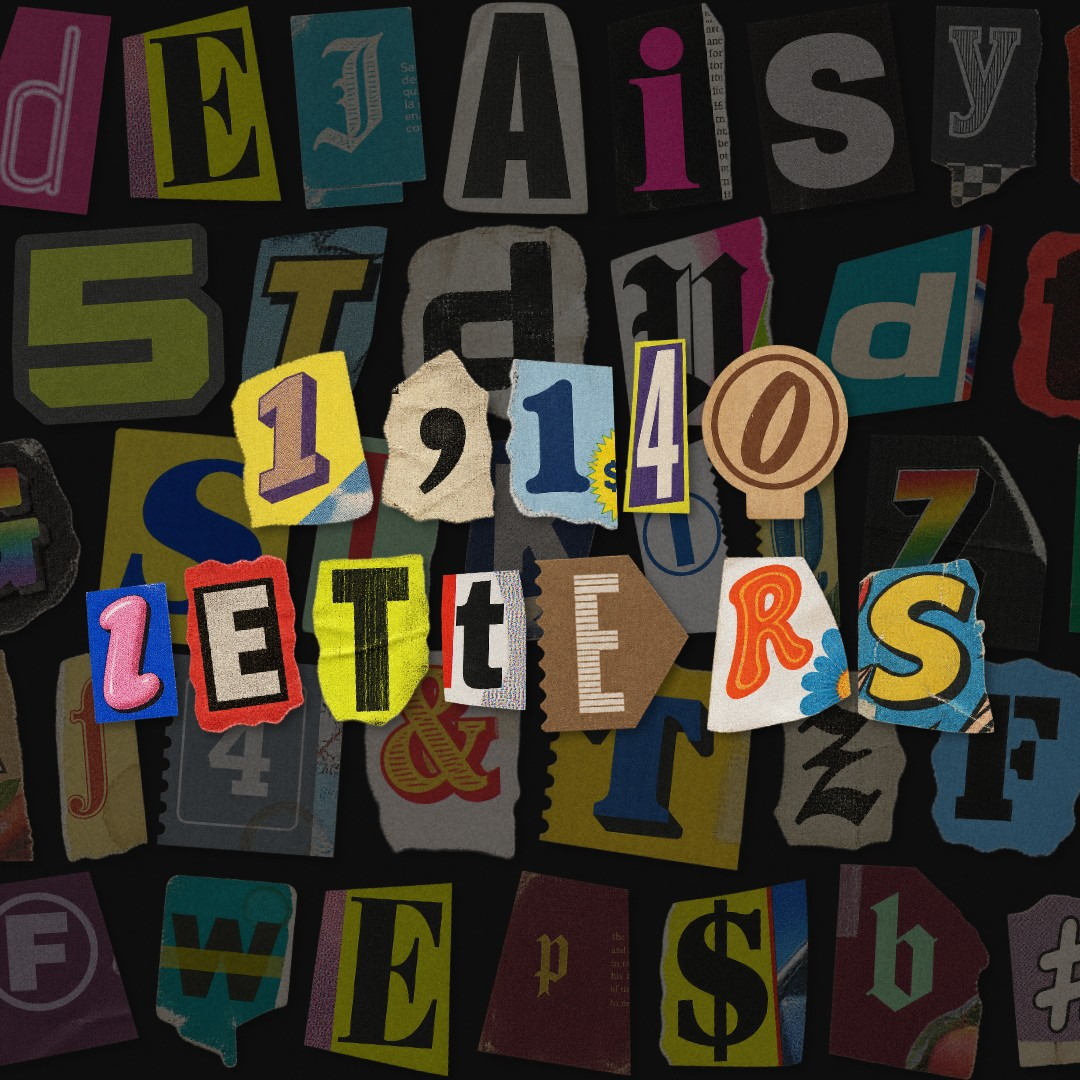
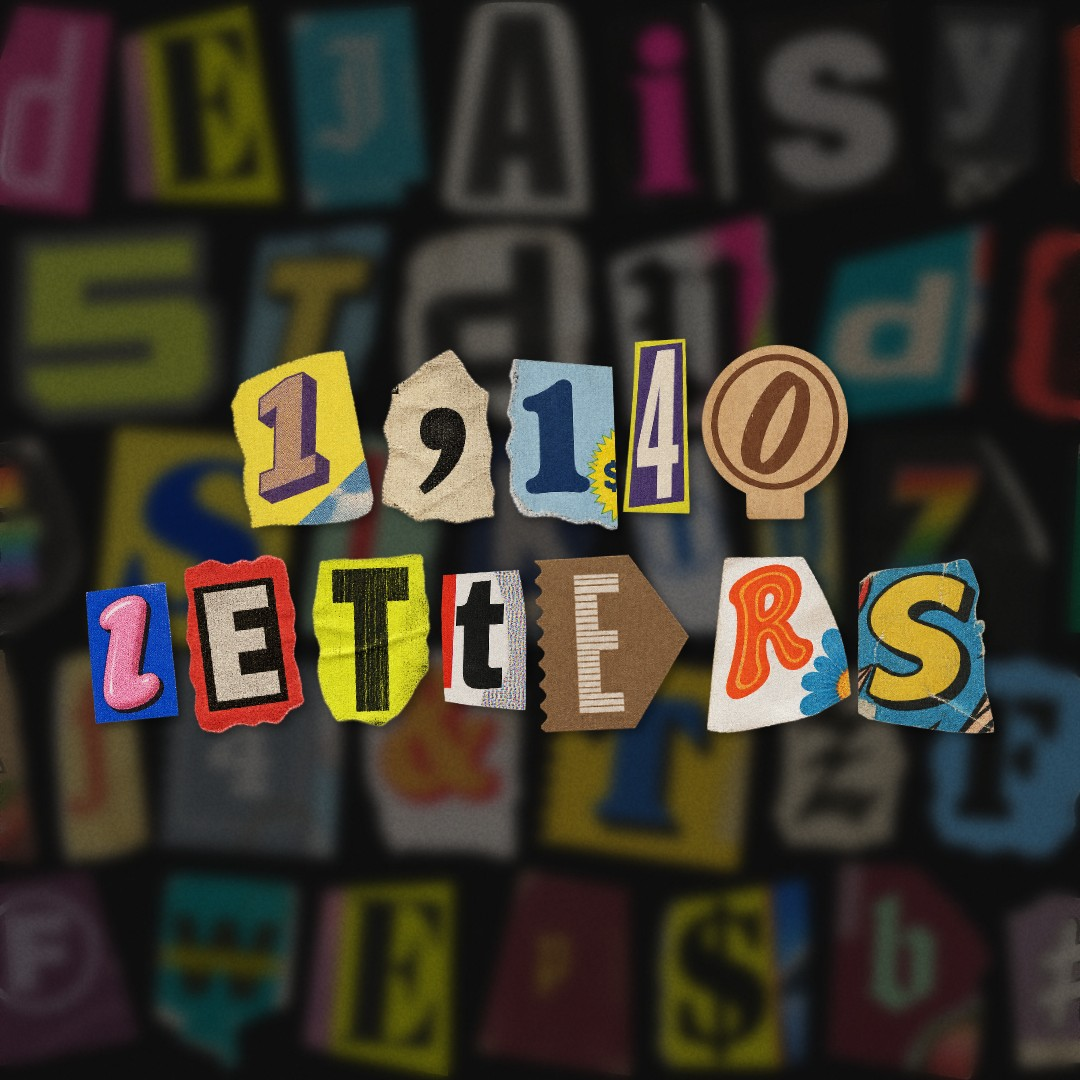
Clippings 1,140 still: the letter wall behind blurred

diff --git a/assets/js/plugins.js b/assets/js/plugins.js
@@ -187,8 +187,8 @@ const plugins = [
     shots: [
       // the real panel, live (panel-demos.js): type, swap, shuffle, align, boil
       { demo: 'clippings', src: 'projects/plugins/clippings-ui.jpg?v=2', alt: 'The Clippings panel: type your own words' },
-      // a still, not the loop: the 1,140 LETTERS card (promo/clippings, no piece twice in a note)
-      { src: 'projects/plugins/clippings-1140.jpg?v=1', alt: '1,140 cutout letters' }
+      // a still, not the loop: the 1,140 LETTERS card (promo/clippings at 16.2 s, no piece twice in a note, the wall blurred)
+      { src: 'projects/plugins/clippings-1140.jpg?v=2', alt: '1,140 cutout letters' }
     ],
     intro: `<p>Type your text and Clippings builds it from real cutout letters: magazine scraps, newsprint, comics, record sleeves, band tees, embroidered patches, stickers, tickets and tin signs. The preview shows the exact letters you'll get. Click one to swap it, or shuffle them all, then hit Add.</p>
 <p>The note lands in your comp as one layer, sized to fit, and nothing is baked. Tilt, spacing, boil and the paper shadow are sliders right on that layer, and every letter inside is its own layer you can animate.</p>`,

diff --git a/bodyarmor-powerade.html b/bodyarmor-powerade.html
@@ -19,7 +19,7 @@
 <link rel="preconnect" href="https://fonts.googleapis.com">
 <link rel="preconnect" href="https://fonts.gstatic.com" crossorigin>
 <link href="https://fonts.googleapis.com/css2?family=Inter:ital,wght@0,300..700;1,300..700&display=swap" rel="stylesheet">
-<link rel="stylesheet" href="assets/css/site.css?v=393">
+<link rel="stylesheet" href="assets/css/site.css?v=394">
 <style>
   /* First paint: the header (logo + menu) stays put from page to page; the
      project itself builds top down (site.css, .project load-in). */
@@ -100,9 +100,9 @@
 </footer>
 
 <script>window.PROJECT_SLUG = "bodyarmor-powerade";</script>
-<script src="assets/js/projects.js?v=393"></script>
-<script src="assets/js/project-page.js?v=393"></script>
-<script src="assets/js/site.js?v=393"></script>
+<script src="assets/js/projects.js?v=394"></script>
+<script src="assets/js/project-page.js?v=394"></script>
+<script src="assets/js/site.js?v=394"></script>
 <!-- GoatCounter: page views, no cookies. Skips itself on localhost. -->
 <script data-goatcounter="https://michaelloya.goatcounter.com/count" async src="https://gc.zgo.at/count.js"></script>
 </body>

diff --git a/university-union.html b/university-union.html
@@ -19,7 +19,7 @@
 <link rel="preconnect" href="https://fonts.googleapis.com">
 <link rel="preconnect" href="https://fonts.gstatic.com" crossorigin>
 <link href="https://fonts.googleapis.com/css2?family=Inter:ital,wght@0,300..700;1,300..700&display=swap" rel="stylesheet">
-<link rel="stylesheet" href="assets/css/site.css?v=393">
+<link rel="stylesheet" href="assets/css/site.css?v=394">
 <style>
   /* First paint: the header (logo + menu) stays put from page to page; the
      project itself builds top down (site.css, .project load-in). */
@@ -100,9 +100,9 @@
 </footer>
 
 <script>window.PROJECT_SLUG = "university-union";</script>
-<script src="assets/js/projects.js?v=393"></script>
-<script src="assets/js/project-page.js?v=393"></script>
-<script src="assets/js/site.js?v=393"></script>
+<script src="assets/js/projects.js?v=394"></script>
+<script src="assets/js/project-page.js?v=394"></script>
+<script src="assets/js/site.js?v=394"></script>
 <!-- GoatCounter: page views, no cookies. Skips itself on localhost. -->
 <script data-goatcounter="https://michaelloya.goatcounter.com/count" async src="https://gc.zgo.at/count.js"></script>
 </body>

diff --git a/where-it-hurts.html b/where-it-hurts.html
@@ -19,7 +19,7 @@
 <link rel="preconnect" href="https://fonts.googleapis.com">
 <link rel="preconnect" href="https://fonts.gstatic.com" crossorigin>
 <link href="https://fonts.googleapis.com/css2?family=Inter:ital,wght@0,300..700;1,300..700&display=swap" rel="stylesheet">
-<link rel="stylesheet" href="assets/css/site.css?v=393">
+<link rel="stylesheet" href="assets/css/site.css?v=394">
 <style>
   /* First paint: the header (logo + menu) stays put from page to page; the
      project itself builds top down (site.css, .project load-in). */
@@ -100,9 +100,9 @@
 </footer>
 
 <script>window.PROJECT_SLUG = "where-it-hurts";</script>
-<script src="assets/js/projects.js?v=393"></script>
-<script src="assets/js/project-page.js?v=393"></script>
-<script src="assets/js/site.js?v=393"></script>
+<script src="assets/js/projects.js?v=394"></script>
+<script src="assets/js/project-page.js?v=394"></script>
+<script src="assets/js/site.js?v=394"></script>
 <!-- GoatCounter: page views, no cookies. Skips itself on localhost. -->
 <script data-goatcounter="https://michaelloya.goatcounter.com/count" async src="https://gc.zgo.at/count.js"></script>
 </body>

diff --git a/miscellaneous.html b/miscellaneous.html
@@ -19,7 +19,7 @@
 <link rel="preconnect" href="https://fonts.googleapis.com">
 <link rel="preconnect" href="https://fonts.gstatic.com" crossorigin>
 <link href="https://fonts.googleapis.com/css2?family=Inter:ital,wght@0,300..700;1,300..700&display=swap" rel="stylesheet">
-<link rel="stylesheet" href="assets/css/site.css?v=393">
+<link rel="stylesheet" href="assets/css/site.css?v=394">
 <style>
   /* First paint: the header (logo + menu) stays put from page to page; the
      project itself builds top down (site.css, .project load-in). */
@@ -100,9 +100,9 @@
 </footer>
 
 <script>window.PROJECT_SLUG = "miscellaneous";</script>
-<script src="assets/js/projects.js?v=393"></script>
-<script src="assets/js/project-page.js?v=393"></script>
-<script src="assets/js/site.js?v=393"></script>
+<script src="assets/js/projects.js?v=394"></script>
+<script src="assets/js/project-page.js?v=394"></script>
+<script src="assets/js/site.js?v=394"></script>
 <!-- GoatCounter: page views, no cookies. Skips itself on localhost. -->
 <script data-goatcounter="https://michaelloya.goatcounter.com/count" async src="https://gc.zgo.at/count.js"></script>
 </body>

diff --git a/album-covers.html b/album-covers.html
@@ -19,7 +19,7 @@
 <link rel="preconnect" href="https://fonts.googleapis.com">
 <link rel="preconnect" href="https://fonts.gstatic.com" crossorigin>
 <link href="https://fonts.googleapis.com/css2?family=Inter:ital,wght@0,300..700;1,300..700&display=swap" rel="stylesheet">
-<link rel="stylesheet" href="assets/css/site.css?v=393">
+<link rel="stylesheet" href="assets/css/site.css?v=394">
 <style>
   /* First paint: the header (logo + menu) stays put from page to page; the
      project itself builds top down (site.css, .project load-in). */
@@ -100,9 +100,9 @@
 </footer>
 
 <script>window.PROJECT_SLUG = "album-covers";</script>
-<script src="assets/js/projects.js?v=393"></script>
-<script src="assets/js/project-page.js?v=393"></script>
-<script src="assets/js/site.js?v=393"></script>
+<script src="assets/js/projects.js?v=394"></script>
+<script src="assets/js/project-page.js?v=394"></script>
+<script src="assets/js/site.js?v=394"></script>
 <!-- GoatCounter: page views, no cookies. Skips itself on localhost. -->
 <script data-goatcounter="https://michaelloya.goatcounter.com/count" async src="https://gc.zgo.at/count.js"></script>
 </body>

diff --git a/loya.html b/loya.html
@@ -19,7 +19,7 @@
 <link rel="preconnect" href="https://fonts.googleapis.com">
 <link rel="preconnect" href="https://fonts.gstatic.com" crossorigin>
 <link href="https://fonts.googleapis.com/css2?family=Inter:ital,wght@0,300..700;1,300..700&display=swap" rel="stylesheet">
-<link rel="stylesheet" href="assets/css/site.css?v=393">
+<link rel="stylesheet" href="assets/css/site.css?v=394">
 <style>
   /* First paint: the header (logo + menu) stays put from page to page; the
      project itself builds top down (site.css, .project load-in). */
@@ -100,9 +100,9 @@
 </footer>
 
 <script>window.PROJECT_SLUG = "loya";</script>
-<script src="assets/js/projects.js?v=393"></script>
-<script src="assets/js/project-page.js?v=393"></script>
-<script src="assets/js/site.js?v=393"></script>
+<script src="assets/js/projects.js?v=394"></script>
+<script src="assets/js/project-page.js?v=394"></script>
+<script src="assets/js/site.js?v=394"></script>
 <!-- GoatCounter: page views, no cookies. Skips itself on localhost. -->
 <script data-goatcounter="https://michaelloya.goatcounter.com/count" async src="https://gc.zgo.at/count.js"></script>
 </body>

diff --git a/clippings.html b/clippings.html
@@ -18,7 +18,7 @@
 
 <link rel="preconnect" href="https://fonts.googleapis.com">
 <link rel="preconnect" href="https://fonts.gstatic.com" crossorigin>
-<link rel="stylesheet" href="assets/css/site.css?v=393">
+<link rel="stylesheet" href="assets/css/site.css?v=394">
 <style>
   /* First-paint guard. Applies before anything else resolves, so the page
      never flashes raw content before the load-in animations start.
@@ -101,10 +101,10 @@
 </footer>
 
 <script>window.PLUGIN_SLUG = "clippings";</script>
-<script src="assets/js/plugins.js?v=393"></script>
-<script src="assets/js/panel-demos.js?v=393"></script>
-<script src="assets/js/plugin-page.js?v=393"></script>
-<script src="assets/js/site.js?v=393"></script>
+<script src="assets/js/plugins.js?v=394"></script>
+<script src="assets/js/panel-demos.js?v=394"></script>
+<script src="assets/js/plugin-page.js?v=394"></script>
+<script src="assets/js/site.js?v=394"></script>
 <!-- GoatCounter: page views, no cookies. Skips itself on localhost. -->
 <script data-goatcounter="https://michaelloya.goatcounter.com/count" async src="https://gc.zgo.at/count.js"></script>
 </body>

diff --git a/receipts.html b/receipts.html
@@ -18,7 +18,7 @@
 
 <link rel="preconnect" href="https://fonts.googleapis.com">
 <link rel="preconnect" href="https://fonts.gstatic.com" crossorigin>
-<link rel="stylesheet" href="assets/css/site.css?v=393">
+<link rel="stylesheet" href="assets/css/site.css?v=394">
 <style>
   /* First-paint guard. Applies before anything else resolves, so the page
      never flashes raw content before the load-in animations start.
@@ -101,10 +101,10 @@
 </footer>
 
 <script>window.PLUGIN_SLUG = "receipts";</script>
-<script src="assets/js/plugins.js?v=393"></script>
-<script src="assets/js/panel-demos.js?v=393"></script>
-<script src="assets/js/plugin-page.js?v=393"></script>
-<script src="assets/js/site.js?v=393"></script>
+<script src="assets/js/plugins.js?v=394"></script>
+<script src="assets/js/panel-demos.js?v=394"></script>
+<script src="assets/js/plugin-page.js?v=394"></script>
+<script src="assets/js/site.js?v=394"></script>
 <!-- GoatCounter: page views, no cookies. Skips itself on localhost. -->
 <script data-goatcounter="https://michaelloya.goatcounter.com/count" async src="https://gc.zgo.at/count.js"></script>
 </body>

diff --git a/index.html b/index.html
@@ -19,7 +19,7 @@
 <link rel="preconnect" href="https://fonts.googleapis.com">
 <link rel="preconnect" href="https://fonts.gstatic.com" crossorigin>
 <link rel="stylesheet" href="https://use.typekit.net/oft2xxg.css">
-<link rel="stylesheet" href="assets/css/site.css?v=393">
+<link rel="stylesheet" href="assets/css/site.css?v=394">
 <style>
   /* First-paint guard. Applies before anything else resolves, so the page
      never flashes raw content before the load-in animations start.
@@ -127,9 +127,9 @@
 </footer>
 
 <!-- ══ PROJECT DETAIL ══ -->
-<script src="assets/js/projects.js?v=393"></script>
-<script src="assets/js/hero.js?v=393"></script>
-<script src="assets/js/site.js?v=393"></script>
+<script src="assets/js/projects.js?v=394"></script>
+<script src="assets/js/hero.js?v=394"></script>
+<script src="assets/js/site.js?v=394"></script>
 <!-- GoatCounter: page views, no cookies. Skips itself on localhost. -->
 <script data-goatcounter="https://michaelloya.goatcounter.com/count" async src="https://gc.zgo.at/count.js"></script>
 </body>

diff --git a/gh-midi.html b/gh-midi.html
@@ -18,7 +18,7 @@
 
 <link rel="preconnect" href="https://fonts.googleapis.com">
 <link rel="preconnect" href="https://fonts.gstatic.com" crossorigin>
-<link rel="stylesheet" href="assets/css/site.css?v=393">
+<link rel="stylesheet" href="assets/css/site.css?v=394">
 <style>
   /* First-paint guard. Applies before anything else resolves, so the page
      never flashes raw content before the load-in animations start.
@@ -101,9 +101,9 @@
 </footer>
 
 <script>window.PLUGIN_SLUG = "gh-midi";</script>
-<script src="assets/js/plugins.js?v=393"></script>
-<script src="assets/js/plugin-page.js?v=393"></script>
-<script src="assets/js/site.js?v=393"></script>
+<script src="assets/js/plugins.js?v=394"></script>
+<script src="assets/js/plugin-page.js?v=394"></script>
+<script src="assets/js/site.js?v=394"></script>
 <!-- GoatCounter: page views, no cookies. Skips itself on localhost. -->
 <script data-goatcounter="https://michaelloya.goatcounter.com/count" async src="https://gc.zgo.at/count.js"></script>
 </body>

diff --git a/all.html b/all.html
@@ -18,7 +18,7 @@
 
 <link rel="preconnect" href="https://fonts.googleapis.com">
 <link rel="preconnect" href="https://fonts.gstatic.com" crossorigin>
-<link rel="stylesheet" href="assets/css/site.css?v=393">
+<link rel="stylesheet" href="assets/css/site.css?v=394">
 <style>
   /* First-paint guard. Applies before anything else resolves, so the page
      never flashes raw content before the load-in animations start.
@@ -97,9 +97,9 @@
   </div>
 </footer>
 
-<script src="assets/js/projects.js?v=393"></script>
-<script src="assets/js/plugins.js?v=393"></script>
-<script src="assets/js/site.js?v=393"></script>
+<script src="assets/js/projects.js?v=394"></script>
+<script src="assets/js/plugins.js?v=394"></script>
+<script src="assets/js/site.js?v=394"></script>
 <!-- GoatCounter: page views, no cookies. Skips itself on localhost. -->
 <script data-goatcounter="https://michaelloya.goatcounter.com/count" async src="https://gc.zgo.at/count.js"></script>
 </body>
